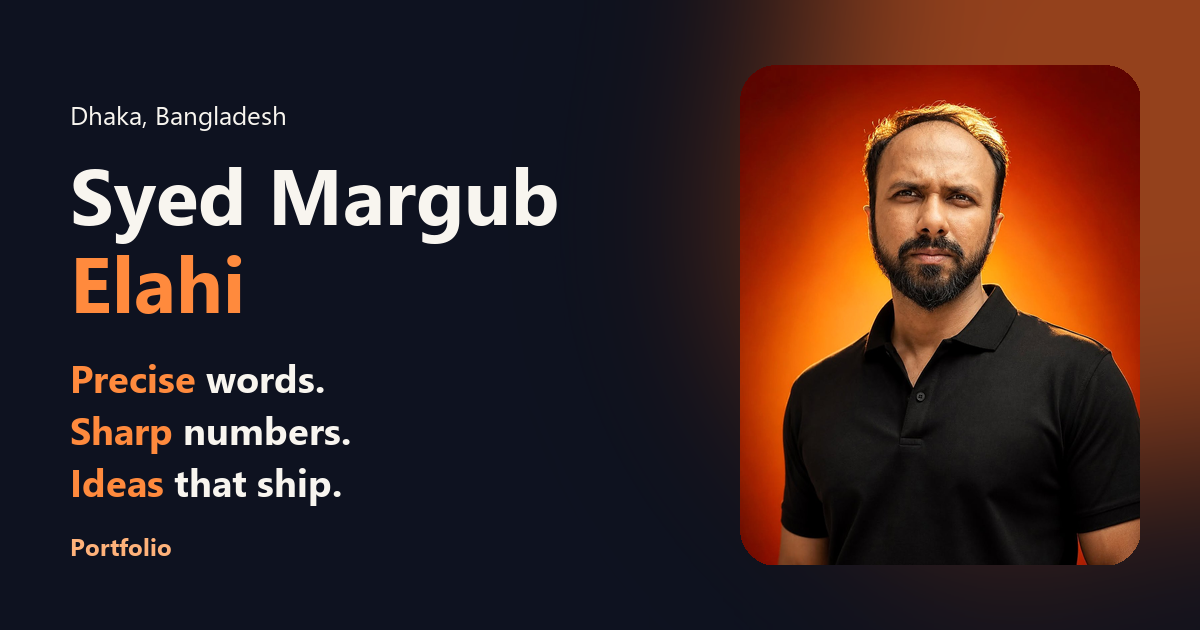
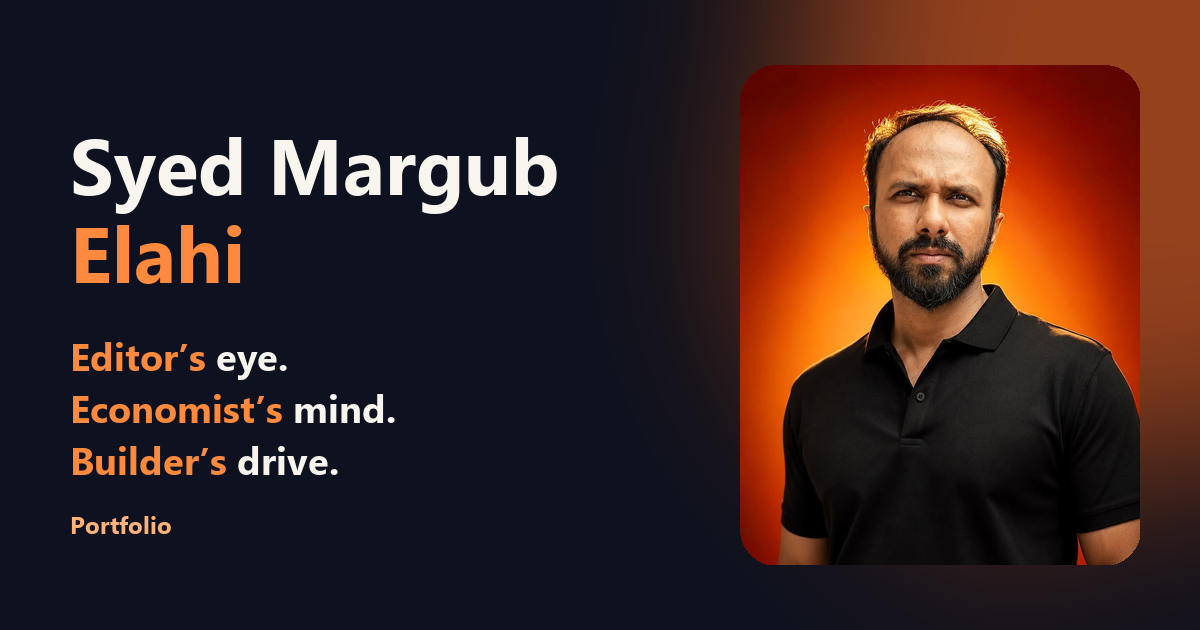
Update skills, add Breakfast Club Dhaka, new tagline, drop hero location
- Skills: "Administration & accounts" and "Sub-editing & publishing" groups
  with education-office and sub-editor terms drawn from the experience records;
  Word, Excel and PowerPoint listed separately; Adobe Creative Suite replaced by
  Adobe Premiere Pro and Adobe Illustrator.
- Experience: Logistics and Security Admin, Breakfast Club Dhaka (project-based,
  2025 to present). Event names to follow.
- Tagline: "Editor's Eye. Economist's Mind. Builder's Drive." in the title,
  share previews and preview card (scripts/make-og-image.py).
- Location removed from above the name and from the preview card; it stays in
  the About "At a glance" card.

Changed region(s): [[0.0617, 0.1508, 0.4625, 0.5127], [0.0617, 0.5429, 0.3392, 0.9048]]

diff --git a/src/content/capabilities.ts b/src/content/capabilities.ts
@@ -8,28 +8,48 @@ export const capabilities: CapabilityGroup[] = [
     id: 'administration',
     order: 1,
     visibility: 'published',
-    title: 'Office administration',
-    description: 'Keeping an office organised, its records accurate and its numbers in order.',
+    title: 'Administration & accounts',
+    description: 'Running the office and accounts side of an education institute: budgets, payroll, records and exams.',
+    // Each item maps to a duty in experience.ts (Vertical Horizon Limited and Bangladesh Betar).
     items: [
-      'Budget preparation',
+      'Office administration',
+      'Budget preparation & monitoring',
       'Payroll processing',
-      'Recruitment & training',
-      'Records & database management',
+      'Payment processing (vendors & contractors)',
+      'Financial record keeping',
       'Procurement & logistics',
+      'Recruitment & staff training',
+      'Student records & attendance reporting',
+      'Performance reporting',
+      'Exam coordination & invigilation',
+      'Exam seating plans',
+      'Question paper & mock test preparation',
+      'Parent–teacher meeting coordination',
       'Event management',
-      'Exam coordination',
+      'Event logistics & security',
+      'Records & database management',
     ],
   },
   {
     id: 'editorial',
     order: 2,
     visibility: 'published',
-    title: 'Editorial & communications',
-    description: 'Making words clear and correct for print, broadcast and the screen.',
+    title: 'Sub-editing & publishing',
+    description: 'Taking copy from submission to a printed, distributed publication, in Bangla and English.',
+    // Each item maps to a Bangladesh Betar duty in experience.ts.
     items: [
       'Sub-editing',
-      'Copy editing & proofreading',
-      'Print production',
+      'Copy editing',
+      'Proofreading',
+      'Bangla & English editing',
+      'Content vetting & approval',
+      'Editorial planning',
+      'Print production & press liaison',
+      'Cover & design briefs',
+      'Photo selection',
+      'Event photography',
+      'Publication distribution',
+      'Archiving & library management',
       'Content writing',
       'Social media management',
       'SEO (on-page & off-page)',
@@ -51,14 +71,15 @@ export const capabilities: CapabilityGroup[] = [
     title: 'Software & AI tools',
     description: 'What I use day to day, including AI-assisted workflows.',
     items: [
-      'Microsoft Excel',
       'Microsoft Word',
+      'Microsoft Excel',
       'Microsoft PowerPoint',
       'Microsoft Outlook',
       'HTML',
       'Canva (templates & graphics)',
       'Adobe Photoshop',
-      'Adobe Creative Suite',
+      'Adobe Premiere Pro',
+      'Adobe Illustrator',
       'PhotoScape',
       'CapCut',
       'ChatGPT',

diff --git a/src/content/experience.ts b/src/content/experience.ts
@@ -69,6 +69,20 @@ export const experience: Experience[] = [
       'Create promotional materials for social media.',
     ],
   },
+  {
+    // Margub told us on 2026-11-07: project-based event work since 2025.
+    // Event names to follow; add them as highlights when Margub supplies them.
+    id: 'breakfast-club-dhaka',
+    order: 3.5,
+    visibility: 'published',
+    role: 'Logistics and Security Admin',
+    organization: 'Breakfast Club Dhaka',
+    employment: 'Project-based',
+    start: '2025',
+    end: 'present',
+    location: 'Dhaka',
+    summary: 'Manage logistics and security administration for Breakfast Club Dhaka events, project by project.',
+  },
   // British Council, Daraz and Banglalink Digital come from Margub's Facebook work history (chosen on 2026-11-07).
   // No source describes the duties, so these records carry no highlights.
   {

diff --git a/src/content/profile.ts b/src/content/profile.ts
@@ -10,8 +10,8 @@ export const profile: Profile = {
   siteUrl: 'https://syedmargubelahi.github.io/portfolio',
   titles: ['Sub-Editor', 'Senior Office Administrator', 'Economics Researcher', 'AI-assisted Product Builder'],
   // Shown in the browser tab, search results and link previews instead of a list of job titles.
-  // Each part rests on real work: editing (words), economics research (numbers), live products (ship).
-  tagline: 'Precise Words. Sharp Numbers. Ideas That Ship.',
+  // Chosen by Margub on 2026-11-07. Each part rests on real work: sub-editing, economics research, live products.
+  tagline: 'Editor’s Eye. Economist’s Mind. Builder’s Drive.',
   heroHeadline: 'Turning everyday problems into useful digital experiences.',
   heroWords: { highlight: 'useful' },
   heroIntro:

diff --git a/src/components/Hero.tsx b/src/components/Hero.tsx
@@ -109,11 +109,7 @@ export function Hero({
 
       <div className="hero-inner">
         <div className="hero-copy">
-          <p className="hero-kicker">
-            <span className="kicker-dot" aria-hidden="true" />
-            {profile.location}
-          </p>
-
+          {/* Location lives in the About "At a glance" card, not above the name. */}
           <h1 id="hero-title" className="hero-name" aria-label={profile.name}>
             {nameWords.map((word, i) => (
               <Fragment key={i}>

diff --git a/src/content/types.ts b/src/content/types.ts
@@ -97,7 +97,7 @@ export interface Experience extends Ordered {
   role: string;
   organization: string;
   /** Leave out when the CV does not say. */
-  employment?: 'Full-time' | 'Part-time' | 'Contract' | 'Volunteer';
+  employment?: 'Full-time' | 'Part-time' | 'Contract' | 'Volunteer' | 'Project-based';
   start: YearMonth;
   end: YearMonth | 'present';
   location?: string;

diff --git a/src/styles/hero.css b/src/styles/hero.css
@@ -64,7 +64,7 @@
 }
 
 .hero-name {
-  margin: 20px 0 6px;
+  margin: 0 0 6px;
   font-size: clamp(2.6rem, 1.4rem + 5.4vw, 6.2rem);
   font-weight: 720;
   line-height: 0.98;

diff --git a/scripts/make-og-image.py b/scripts/make-og-image.py
@@ -1,0 +1,42 @@
+# -*- coding: utf-8 -*-
+import sys
+from PIL import Image, ImageDraw, ImageFont, ImageFilter
+
+portrait, out = sys.argv[1], sys.argv[2]
+W, H = 1200, 630
+night = (14, 18, 32)
+img = Image.new('RGB', (W, H), night)
+
+# Ember glow behind the portrait
+glow = Image.new('RGBA', (W, H), (0, 0, 0, 0))
+g = ImageDraw.Draw(glow)
+g.ellipse((700, -120, 1320, 560), fill=(242, 98, 26, 150))
+glow = glow.filter(ImageFilter.GaussianBlur(110))
+img.paste(glow, (0, 0), glow)
+
+# Portrait in a rounded frame
+p = Image.open(portrait).convert('RGB')
+pw, ph = 400, 500
+scale = max(pw / p.width, ph / p.height)
+p = p.resize((round(p.width * scale), round(p.height * scale)), Image.Resampling.LANCZOS)
+left = (p.width - pw) // 2
+p = p.crop((left, 0, left + pw, ph))
+mask = Image.new('L', (pw, ph), 0)
+ImageDraw.Draw(mask).rounded_rectangle((0, 0, pw, ph), radius=36, fill=255)
+img.paste(p, (740, 65), mask)
+
+d = ImageDraw.Draw(img)
+F = 'C:/Windows/Fonts/'
+bold = lambda s: ImageFont.truetype(F + 'segoeuib.ttf', s)
+reg = lambda s: ImageFont.truetype(F + 'segoeui.ttf', s)
+d.text((70, 110), 'Syed Margub', font=bold(78), fill=(248, 245, 239))
+d.text((70, 198), 'Elahi', font=bold(78), fill=(255, 138, 61))
+y = 330
+for word, rest in [('Editor’s', ' eye.'), ('Economist’s', ' mind.'), ('Builder’s', ' drive.')]:
+    d.text((70, y), word, font=bold(38), fill=(255, 138, 61))
+    w = d.textlength(word, font=bold(38))
+    d.text((70 + w, y), rest, font=bold(38), fill=(248, 245, 239))
+    y += 52
+d.text((70, 508), 'Portfolio', font=bold(24), fill=(255, 178, 122))
+img.save(out, optimize=True)
+print('saved', img.size)

diff --git a/CLAUDE.md b/CLAUDE.md
@@ -84,7 +84,8 @@ Margub asked for recruiter-ready wording that Claude writes and maintains.
 - Hero (`styles/hero.css`, loaded last): dark stage, name as the `h1`, portrait in a tall rounded frame with
   facts built from content. On phones the portrait comes first and the facts sit under it.
   Portrait files: `public/media/portrait/` (1200px JPG plus 480–1600px WebP). `public/og-image.png` is the
-  link-preview card; regenerate it when the portrait or current role changes.
+  link-preview card; regenerate it with `python scripts/make-og-image.py public/media/portrait/portrait-1200.jpg public/og-image.png`
+  when the portrait or tagline changes (the text lines are inside the script).
 - Type: Sora (display, `--font-display`) and Inter (body), self-hosted via Fontsource.
 - Shapes: rounded media frames (`--radius-lg`), pill buttons and links, soft shadows (`--shadow-*`).
 - Layouts vary per section (collage, typographic panel, numbered list, dark timeline, pill rows). Avoid
